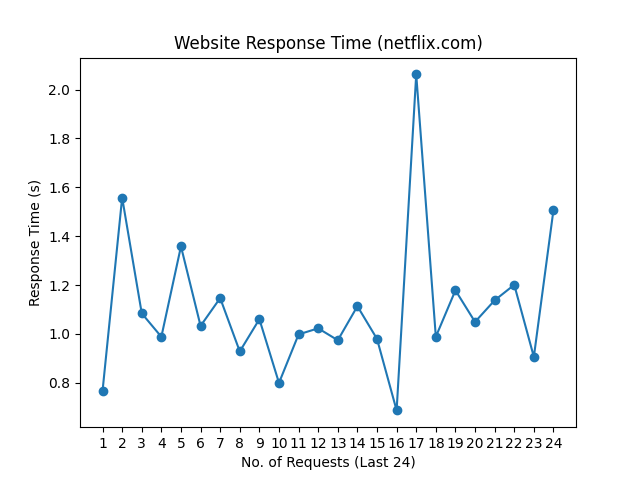
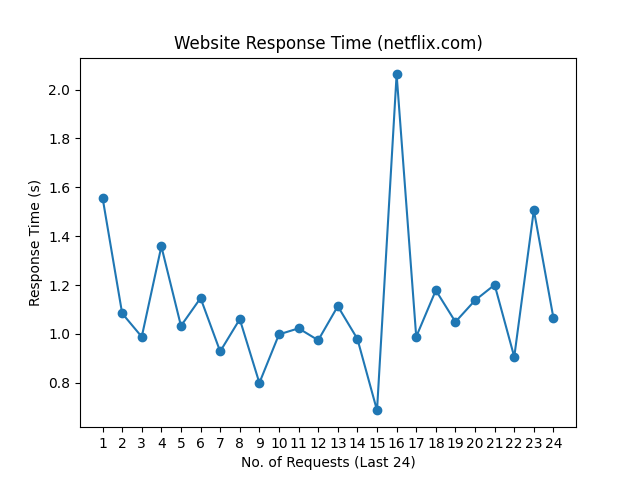
update README.md, history and graph

Changed region(s): [[0.1562, 0.125, 0.875, 0.875]]

diff --git a/README.md b/README.md
@@ -1,10 +1,10 @@
 # Web Monitoring
 
-Last Checked: 26/08/2023 08:56
+Last Checked: 27/08/2023 09:01
 
 | Website | Response Time (s) | Status | Avg Uptime (%) |
 |---------|-------------------|--------|----------------|
 | www.thiswebsiteisdown.net | 0 <br> <img src="graph/thiswebsiteisdown.net.png" alt="Graph" width="200" height="200">  | ❌ Down | 0.00 |
-| www.netflix.com | 1.507033 <br> <img src="graph/netflix.com.png" alt="Graph" width="200" height="200">  | ✅ Up | 100.00 |
-| www.google.com | 0.091177 <br> <img src="graph/google.com.png" alt="Graph" width="200" height="200">  | ✅ Up | 100.00 |
-| www.facebook.com | 0.307237 <br> <img src="graph/facebook.com.png" alt="Graph" width="200" height="200">  | ✅ Up | 100.00 |
+| www.netflix.com | 1.064680 <br> <img src="graph/netflix.com.png" alt="Graph" width="200" height="200">  | ✅ Up | 100.00 |
+| www.google.com | 0.057912 <br> <img src="graph/google.com.png" alt="Graph" width="200" height="200">  | ✅ Up | 100.00 |
+| www.facebook.com | 0.276471 <br> <img src="graph/facebook.com.png" alt="Graph" width="200" height="200">  | ✅ Up | 100.00 |
